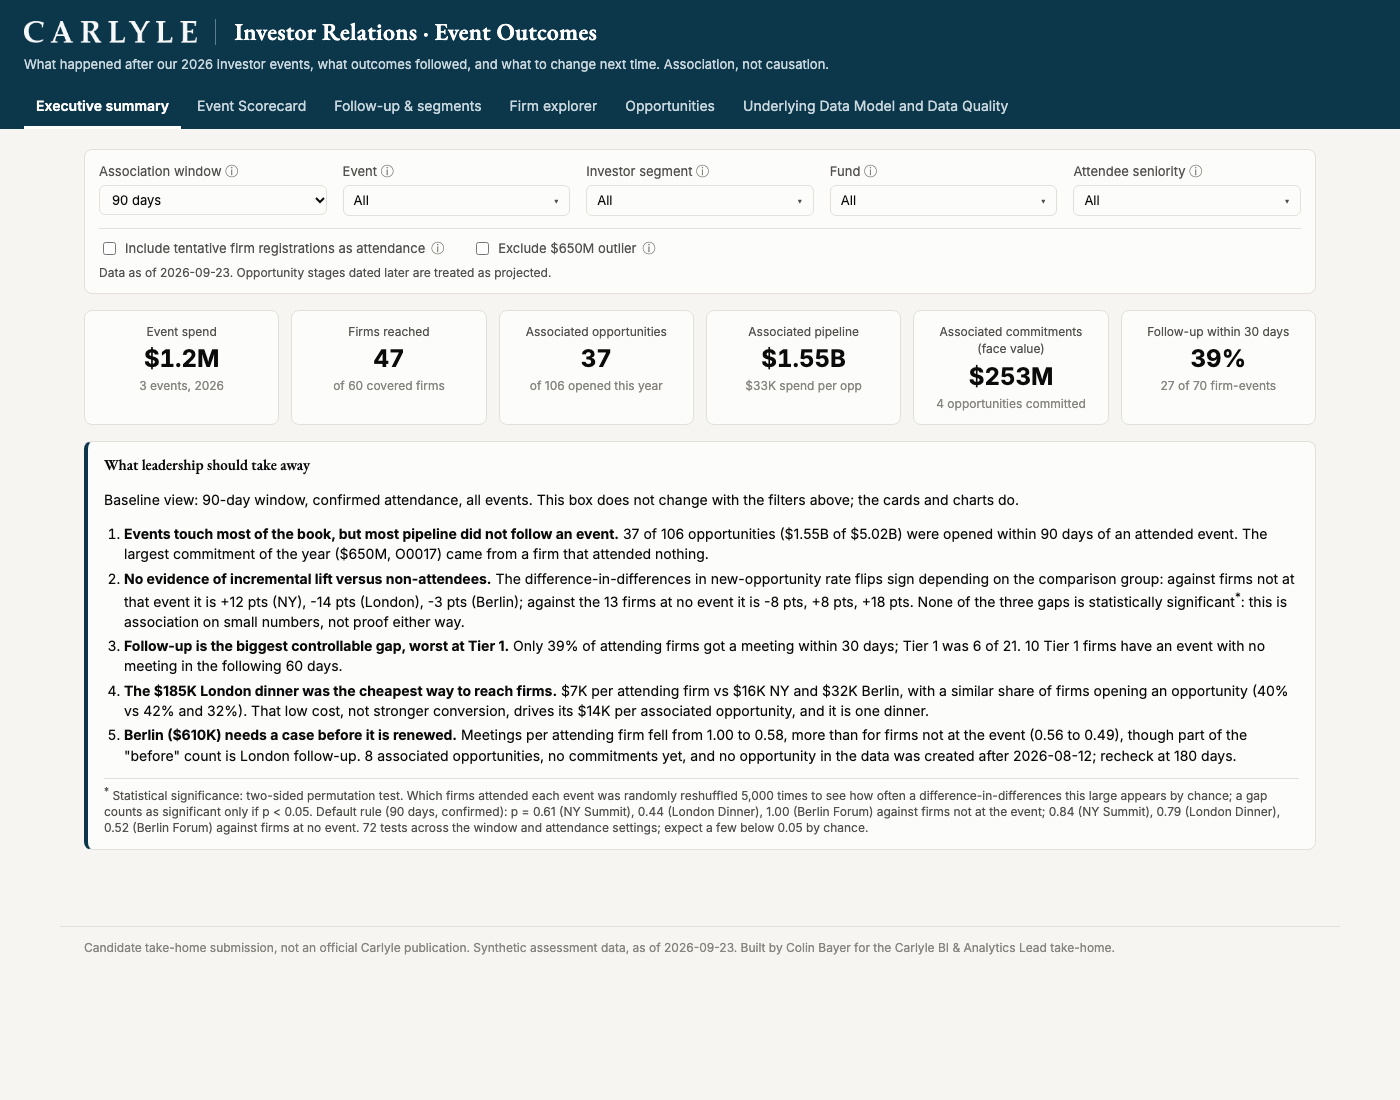
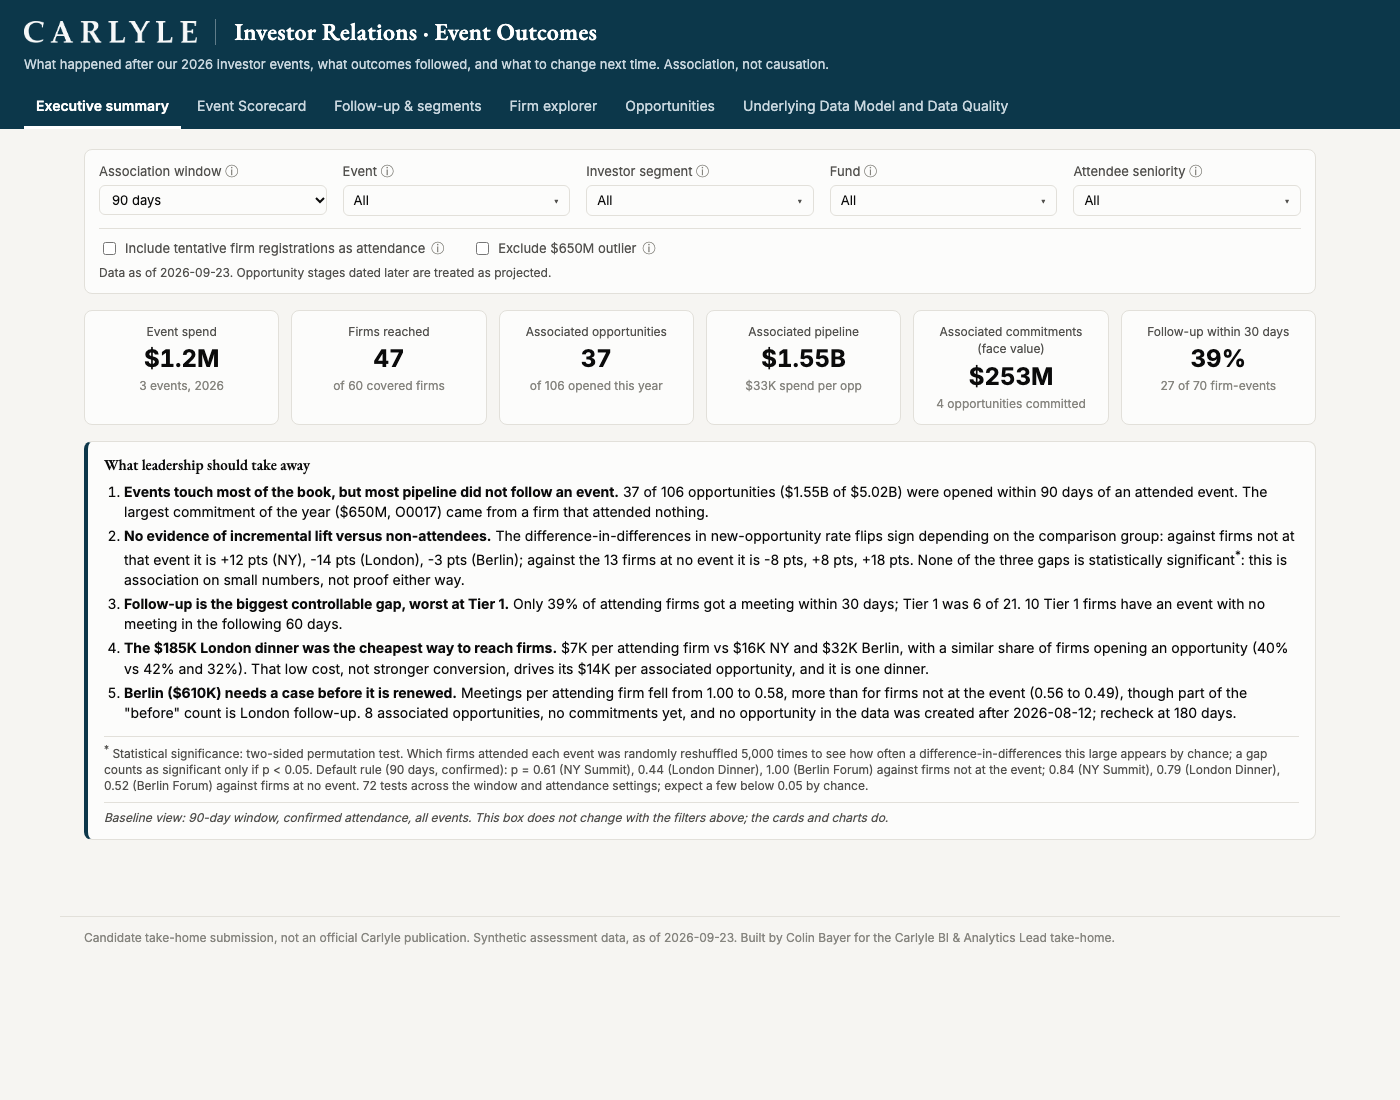
Takeaways box: baseline note moved to the box footer

Changed region(s): [[0.0614, 0.4327, 0.9214, 0.7727], [0.0614, 0.8345, 0.7986, 0.8655]]

diff --git a/docs/index.html b/docs/index.html
@@ -77,6 +77,7 @@ select, input[type=search] { font: inherit; color: var(--text); background: var(
 .chart { position: relative; height: 260px; }
 .insights { background: var(--surface); border: 1px solid var(--border); border-left: 4px solid var(--accent); border-radius: 8px; padding: 12px 16px; margin-bottom: 16px; }
 .insights h2 { font-size: 15px; margin: 0 0 6px; }
+.insights .box-foot { margin: 8px 0 0; padding-top: 6px; border-top: 1px solid var(--border); font-style: italic; }
 .insights ol { margin: 0; padding-left: 20px; }
 .insights li { margin: 4px 0; }
 table { width: 100%; border-collapse: collapse; font-size: 13px; font-variant-numeric: tabular-nums; }
@@ -159,9 +160,9 @@ tr.sel { background: var(--surface-2); }
     <div class="tiles" id="tiles"></div>
     <div class="insights">
       <h2>What leadership should take away</h2>
-      <p class="sub">Baseline view: 90-day window, confirmed attendance, all events. This box does not change with the filters above; the cards and charts do.</p>
       <ol id="insights"></ol>
       <p class="note sig-note" id="sigNoteIns"></p>
+      <p class="note box-foot">Baseline view: 90-day window, confirmed attendance, all events. This box does not change with the filters above; the cards and charts do.</p>
     </div>
   </section>
 

diff --git a/app/streamlit_app.py b/app/streamlit_app.py
@@ -321,13 +321,16 @@ with tab_o:
     d = kpi_all[(kpi_all.window_days == 90) & (~kpi_all.include_tentative)].set_index("event_id")
     t1 = fe[fe.is_confirmed & (fe.tier == "Tier 1")]
     st.info(
-        f"""**What leadership should take away** · Baseline view: 90-day window, confirmed attendance, all events. This box does not change with the filters above; the cards and charts do.
+        f"""**What leadership should take away**
 
 1. **Most pipeline did not follow an event.** {int(d.assoc_opps.sum())} of {len(opps)} opportunities ({fm(d.assoc_pipeline_usd.sum())} of {fm(opps.amount_usd.sum())}) opened within 90 days of an attended event. The largest commitment ($650M) came from a firm that attended nothing.
 2. **No evidence of incremental lift versus non-attendees.** The difference-in-differences in new-opportunity rate runs from {min(d.diff_in_diff_opp_rate.min(), d.diff_in_diff_clean.min())*100:+.0f} to {max(d.diff_in_diff_opp_rate.max(), d.diff_in_diff_clean.max())*100:+.0f} pts across events, and its sign flips depending on whether attendees are compared with firms not at that event (NY {d.loc['E001','diff_in_diff_opp_rate']*100:+.0f}, London {d.loc['E002','diff_in_diff_opp_rate']*100:+.0f}, Berlin {d.loc['E003','diff_in_diff_opp_rate']*100:+.0f}) or with the {int(d.clean_control_firms.iloc[0])} firms at no event ({d.loc['E001','diff_in_diff_clean']*100:+.0f}, {d.loc['E002','diff_in_diff_clean']*100:+.0f}, {d.loc['E003','diff_in_diff_clean']*100:+.0f}). None is statistically significant\\*.
 3. **Follow-up is the controllable gap.** {d.firms_followup_30.sum() / d.firms_attended.sum():.0%} of attending firms met within 30 days; Tier 1 only {int(t1.followed_up_30.sum())} of {len(t1)}.
 4. **London ($185K) was the cheapest way to reach firms:** {fk(d.loc['E002','cost_per_firm'])} per attending firm vs {fk(d.loc['E001','cost_per_firm'])} NY and {fk(d.loc['E003','cost_per_firm'])} Berlin, with a similar share of firms opening an opportunity ({d.loc['E002','firm_conversion_rate']:.0%} vs {d.loc['E001','firm_conversion_rate']:.0%} and {d.loc['E003','firm_conversion_rate']:.0%}). That low cost, not stronger conversion, drives its {fk(d.loc['E002','cost_per_assoc_opp'])} per associated opportunity, and it is one dinner.
-5. **Berlin ($610K) needs a case before renewal:** meetings per attending firm fell {d.loc['E003','meetings_pre_60']/d.loc['E003','firms_attended']:.2f} → {d.loc['E003','meetings_post_60']/d.loc['E003','firms_attended']:.2f}, more than for firms not at the event ({d.loc['E003','non_attendee_meetings_pre_60']/d.loc['E003','non_attendee_firms']:.2f} → {d.loc['E003','non_attendee_meetings_post_60']/d.loc['E003','non_attendee_firms']:.2f}), though part of the "before" count is London follow-up. No commitments yet, and no opportunity in the data was created after {opps.created_date.max()}; recheck at 180 days."""
+5. **Berlin ($610K) needs a case before renewal:** meetings per attending firm fell {d.loc['E003','meetings_pre_60']/d.loc['E003','firms_attended']:.2f} → {d.loc['E003','meetings_post_60']/d.loc['E003','firms_attended']:.2f}, more than for firms not at the event ({d.loc['E003','non_attendee_meetings_pre_60']/d.loc['E003','non_attendee_firms']:.2f} → {d.loc['E003','non_attendee_meetings_post_60']/d.loc['E003','non_attendee_firms']:.2f}), though part of the "before" count is London follow-up. No commitments yet, and no opportunity in the data was created after {opps.created_date.max()}; recheck at 180 days.
+
+---
+*Baseline view: 90-day window, confirmed attendance, all events. This box does not change with the filters above; the cards and charts do.*"""
         .replace("$", "\\$")  # stop Streamlit markdown reading $...$ as LaTeX
     )
     footnote("* " + sig_note(d.reset_index(), "Default rule (90 days, confirmed)"))
